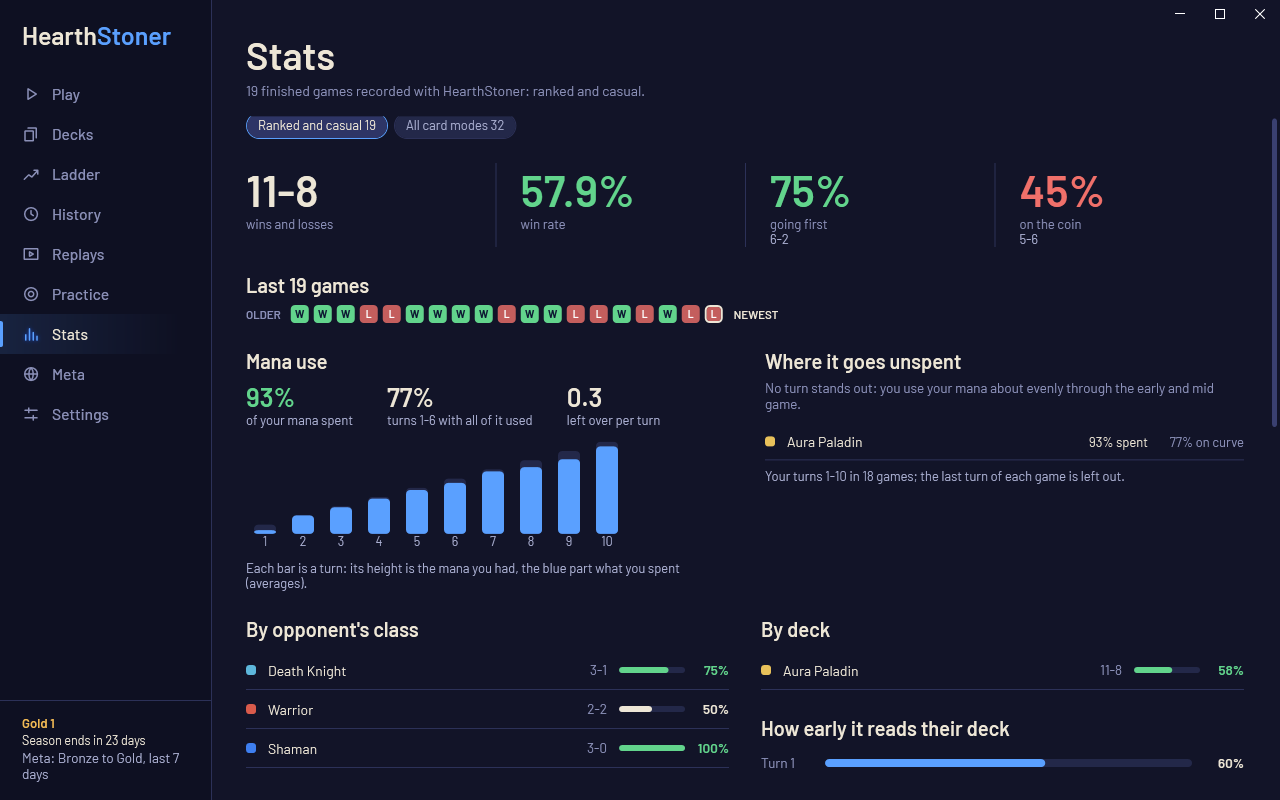
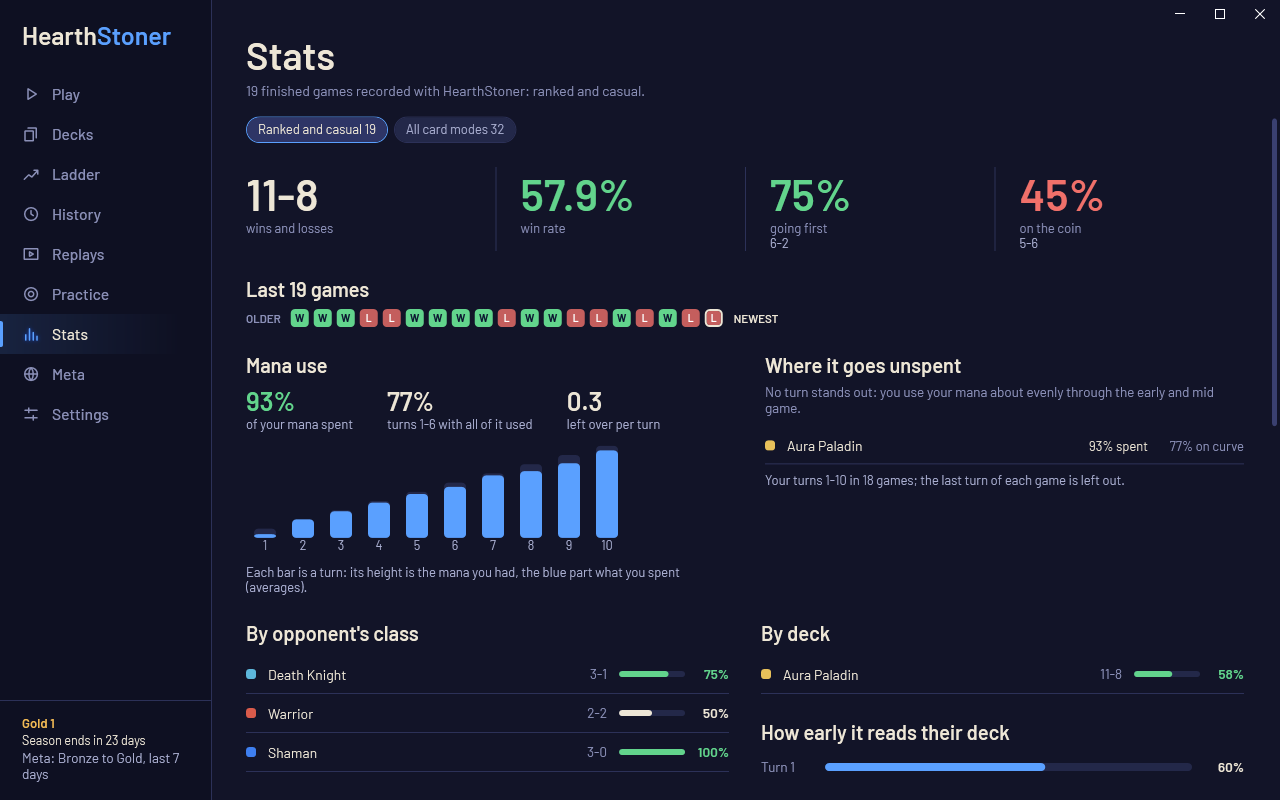
1.5.1: Stats mode chips no longer cut off; screenshots flag clipped content
The chip row had a -4 top margin, which pushed it past the top of the page's
scroll area, and a ScrollViewer clips what sticks out, so the chips' rounded
tops were sliced flat.

ClipCheck walks every ScrollViewer after each screenshot is laid out and lists
any element that sticks out above or left of it. The screenshot command prints
them and exits 1. With the old margin it flagged all 7 Stats shots and nothing
else.

diff --git a/App/Pages/ClipCheck.cs b/App/Pages/ClipCheck.cs
@@ -1,0 +1,78 @@
+using System;
+using System.Collections.Generic;
+using System.Windows;
+using System.Windows.Controls;
+using System.Windows.Media;
+
+namespace HearthStoner.Pages
+{
+    /// <summary>
+    /// Finds page content cut off by its scroll area: a scroll area hides whatever sticks out past its edges, so a
+    /// negative margin on its first row slices off the row's top (the Stats page's mode chips, 1.5.0). Used by the
+    /// screenshot command, which fails when anything is found.
+    /// </summary>
+    public static class ClipCheck
+    {
+        /// <summary>How far, in pixels, an element may stick out before it counts (rounding).</summary>
+        private const double Tolerance = 0.5;
+
+        /// <summary>
+        /// Every element under <paramref name="root"/> that sticks out above or left of the scroll area holding it,
+        /// while that area is scrolled to the top-left. Only the outermost element of a cut-off group is listed.
+        /// </summary>
+        public static List<string> Find(DependencyObject root)
+        {
+            var found = new List<string>();
+            foreach (var sv in Descendants<ScrollViewer>(root))
+            {
+                if (sv.VerticalOffset > 0 || sv.HorizontalOffset > 0 || sv.Content is not DependencyObject content) continue;
+                Walk(content, sv, found);
+            }
+            return found;
+        }
+
+        /// <summary>Checks <paramref name="node"/>, then its children unless it was listed or clips them itself.</summary>
+        private static void Walk(DependencyObject node, ScrollViewer sv, List<string> found)
+        {
+            if (node is FrameworkElement fe)
+            {
+                if (fe.Visibility != Visibility.Visible) return;
+                if (fe.ActualWidth > 0 && fe.ActualHeight > 0 && TopLeft(fe, sv) is Point p && (p.Y < -Tolerance || p.X < -Tolerance))
+                {
+                    found.Add($"{Describe(fe)} sticks out {Math.Max(0, -Math.Round(p.Y, 1))}px at the top and {Math.Max(0, -Math.Round(p.X, 1))}px at the left");
+                    return;
+                }
+                // Anything inside an element that clips is cut by that element, not the scroll area.
+                if (fe.ClipToBounds || fe.Clip != null || fe is ScrollViewer) return;
+            }
+            for (var i = 0; i < VisualTreeHelper.GetChildrenCount(node); i++) Walk(VisualTreeHelper.GetChild(node, i), sv, found);
+        }
+
+        /// <summary>The element's top-left corner in the scroll area's coordinates, or null if it can't be placed.</summary>
+        private static Point? TopLeft(FrameworkElement fe, ScrollViewer sv)
+        {
+            try { return fe.TransformToAncestor(sv).Transform(new Point(0, 0)); }
+            catch (InvalidOperationException swallowed) { Diag.Ignored(swallowed, "ClipCheck"); return null; }
+        }
+
+        /// <summary>The element's type and the first text in it, so the message says which part of the page it is.</summary>
+        private static string Describe(FrameworkElement fe)
+        {
+            var text = fe is TextBlock own ? own.Text : null;
+            if (string.IsNullOrEmpty(text))
+                foreach (var t in Descendants<TextBlock>(fe)) { if (!string.IsNullOrEmpty(t.Text)) { text = t.Text; break; } }
+            return string.IsNullOrEmpty(text) ? fe.GetType().Name : $"{fe.GetType().Name} \"{text}\"";
+        }
+
+        /// <summary>Every visual descendant of type <typeparamref name="T"/>, depth first.</summary>
+        private static IEnumerable<T> Descendants<T>(DependencyObject node) where T : DependencyObject
+        {
+            for (var i = 0; i < VisualTreeHelper.GetChildrenCount(node); i++)
+            {
+                var child = VisualTreeHelper.GetChild(node, i);
+                if (child is T match) yield return match;
+                foreach (var d in Descendants<T>(child)) yield return d;
+            }
+        }
+    }
+}

diff --git a/App/MainWindow.cs b/App/MainWindow.cs
@@ -207,6 +207,7 @@ namespace HearthStoner
         /// </summary>
         public static int Screenshots(AppServices svc, string folder)
         {
+            Clipped.Clear();
             Exception error = null;
             var t = new Thread(() =>
             {
@@ -357,8 +358,14 @@ namespace HearthStoner
             t.Start();
             t.Join();
             if (error != null) throw error;
-            return 0;
+            if (Clipped.Count == 0) return 0;
+            Console.WriteLine($"Cut off by a scroll area ({Clipped.Count}):");
+            foreach (var c in Clipped) Console.WriteLine("  " + c);
+            return 1;
         }
+
+        /// <summary>Page content the screenshots found cut off by a scroll area (see <see cref="Pages.ClipCheck"/>).</summary>
+        private static readonly List<string> Clipped = new List<string>();
 
         /// <summary>
         /// Each Practice drill's first question, and the same question answered (app-practice-play.png,
@@ -396,6 +403,7 @@ namespace HearthStoner
             host.Measure(new Size(wid, hgt));
             host.Arrange(new Rect(0, 0, wid, hgt));
             host.UpdateLayout();
+            foreach (var c in Pages.ClipCheck.Find(host)) Clipped.Add($"app-{name}.png: {c}");
             var bmp = new RenderTargetBitmap(wid, hgt, 96, 96, PixelFormats.Pbgra32);
             bmp.Render(host);
             host.Child = null;

diff --git a/App/Pages/StatsPage.cs b/App/Pages/StatsPage.cs
@@ -117,7 +117,7 @@ namespace HearthStoner.Pages
         /// <summary>"Ranked and casual 18" / "All card modes 29": which games the page counts.</summary>
         private static UIElement ScopeChips(AppShell shell, string scope)
         {
-            var row = new WrapPanel { Margin = new Thickness(0, -4, 0, 18) };
+            var row = new WrapPanel { Margin = new Thickness(0, 0, 0, 18) };
             int ladder = shell.Data.LadderStats.Stats?.Games ?? 0, all = shell.Data.AllStats.Stats?.Games ?? 0;
             row.Children.Add(AppShell.FilterChip($"Ranked and casual {ladder}", scope == AppShell.StatsLadder,
                 () => { shell.StatsScope = AppShell.StatsLadder; shell.Redraw(); }, "Your ladder games: the ones the advice and the meta data are about."));

diff --git a/CHANGELOG.md b/CHANGELOG.md
@@ -3,6 +3,13 @@
 Every installed version, newest first. The number is in `VERSION`: patch (1.0.x) for fixes, minor (1.x.0) for new
 features, major (x.0.0) for big changes, such as a new data format. Each version is tagged in git as `v<number>`.
 
+## 1.5.1 - 2026-11-08
+
+- **Fixed:** the tops of the Stats page's "Ranked and casual" and "All card modes" buttons were cut off flat.
+  The row was nudged 4 pixels up, past the top of the scrolling area, which hides anything outside it.
+- **Checks:** `HearthStoner screenshot` now fails and names anything a page's scroll area cuts off, on every page and
+  window size it draws, so this kind of mistake can't hide in a full-size screenshot again.
+
 ## 1.5.0 - 2026-11-08
 
 The Ladder, History and Stats pages tell the game modes apart, and two crashes-in-waiting are fixed.

diff --git a/README.md b/README.md
@@ -253,7 +253,8 @@ The exe lands in `bin\Release\net10.0-windows\HearthStoner.exe`. `install.bat` b
   the narrowest wide window, 1920 and 3440 px wide), and `HearthStoner preview [out.png] [--log Power.log]
   [--turn N]` draws the overlay at a turn of a saved game. `build.bat` makes `screenshots\preview.png` after every
   build. With `HEARTHSTONER_SCREENSHOT_ANON=1` the screenshots leave your name off the menu (the README's pictures
-  are made that way).
+  are made that way). The screenshot command fails (exit code 1) and lists anything a page's scroll area cuts off,
+  such as a row nudged up past its top edge.
 
 ### Releases
 
